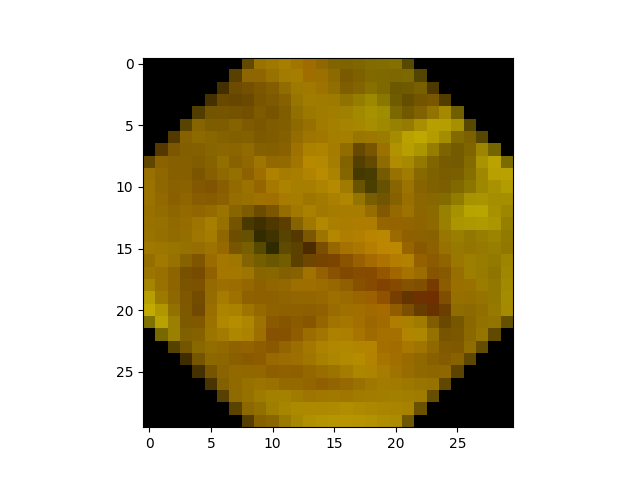
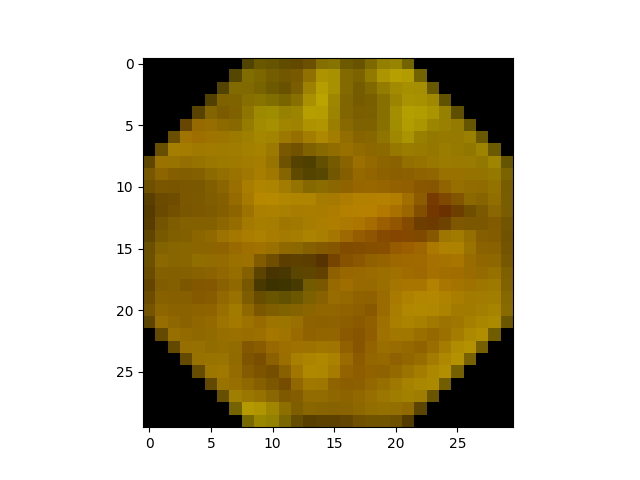
Working through page 3

Changed region(s): [[0.2188, 0.125, 0.8125, 0.8125], [0.3438, 0.6562, 0.6562, 0.9062], [0.2812, 0.5312, 0.3438, 0.5625]]

diff --git a/images/README.md b/images/README.md
@@ -27,3 +27,4 @@ These images are all generated from Scikit-image standard `camera` image:
   page](../1_color_images_as_numpy_arrays);
 - `noisy_camera.png` from the [skimage intro page](../2_skimage_intro);
 - `shoegaze.png` also from the [skimage intro page](../2_skimage_intro);
+- `masked_camera.png` from the [Numpy / Scipy page](../ 3_skimage_processing_from_numpy_and_scipy).
